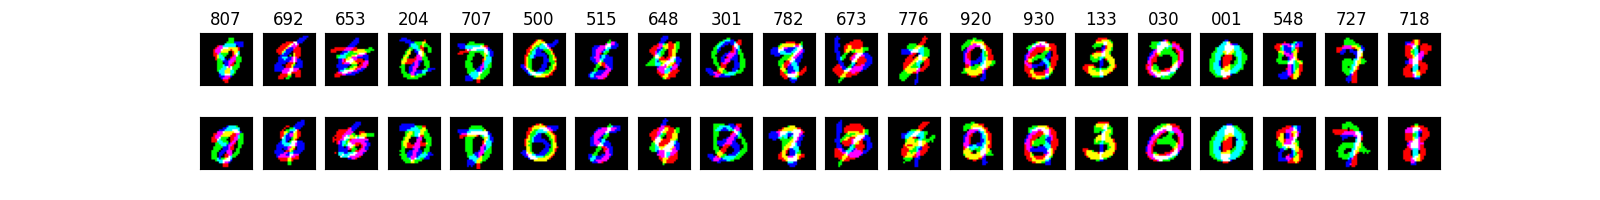
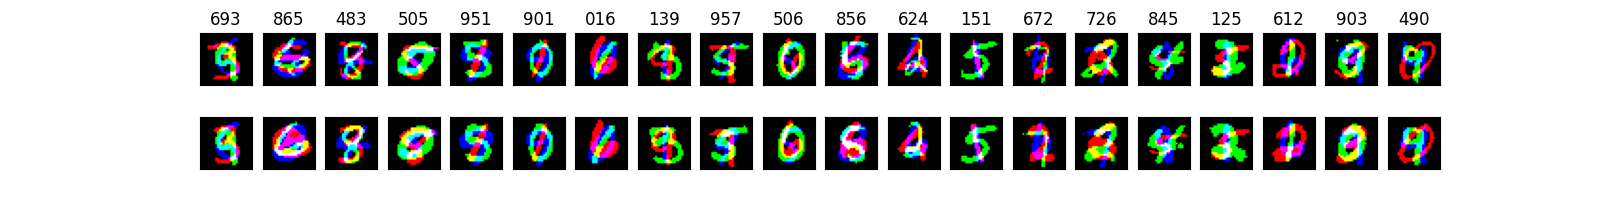
Retrained very large network for AE

Changed region(s): [[0.125, 0.6, 0.9062, 0.84], [0.125, 0.18, 0.9062, 0.42], [0.125, 0.06, 0.9062, 0.12]]

diff --git a/auto_encoder.py b/auto_encoder.py
@@ -27,10 +27,11 @@ class AutoEncoder(ks.models.Model):
         self.encoder = ks.Sequential([
             ks.Input(shape=(image_size, image_size, 1)),
             ks.layers.Flatten(),
-            ks.layers.Dense(600, activation='relu'),
+            ks.layers.Dense(1000, activation='relu'),
+            ks.layers.Dense(1000, activation='relu'),
+            ks.layers.Dense(1000, activation='relu'),
+            ks.layers.Dense(1000, activation='relu'),
             ks.layers.Dense(500, activation='relu'),
-            ks.layers.Dense(300, activation='relu'),
-            ks.layers.Dense(300, activation='relu'),
             ks.layers.Dense(300, activation='relu'),
             ks.layers.Dense(150, activation='relu'),
             ks.layers.Dense(encoded_size, activation='relu'),
@@ -41,12 +42,14 @@ class AutoEncoder(ks.models.Model):
         # size at 28*28=784 pixels. The output is reshaped into an image.
         self.decoder = ks.Sequential([
             ks.layers.Input(shape=(encoded_size)),
-            ks.layers.Dense(150, activation='relu'),
-            ks.layers.Dense(400, activation='relu'),
-            ks.layers.Dense(400, activation='relu'),
-            ks.layers.Dense(500, activation='relu'),
-            ks.layers.Dense(600, activation='relu'),
-            ks.layers.Dense(700, activation='relu'),
+            ks.layers.Dense(1000, activation='relu'),
+            ks.layers.Dense(1000, activation='relu'),
+            ks.layers.Dense(1000, activation='relu'),
+            ks.layers.Dense(1000, activation='relu'),
+            ks.layers.Dense(1000, activation='relu'),
+            ks.layers.Dense(1000, activation='relu'),
+            ks.layers.Dense(1000, activation='relu'),
+            ks.layers.Dense(1000, activation='relu'),
             ks.layers.Dense(image_size**2, activation='sigmoid'),
             ks.layers.Reshape((image_size, image_size))
         ])

diff --git a/deep_generative_model.py b/deep_generative_model.py
@@ -18,10 +18,10 @@ class DeepGenerativeModel:
 
     def __init__(self):
         self.use_vae = False  # Whether to use standard AE or VAE
-        self.run_anomaly_detection = False  # Whether to run anomaly detection
+        self.run_anomaly_detection = True  # Whether to run anomaly detection
         self.stacked_dataset = False  # Whether to use mono or color data set
         self.encoded_dim = 5  # Size of encoded vector
-        self.epochs = 45  # Number of epochs to train
+        self.epochs = 105  # Number of epochs to train
         self.image_size = 28  # Size of image
         self.channels = 1  # Number of color channels
         self.batch_size = 1024
